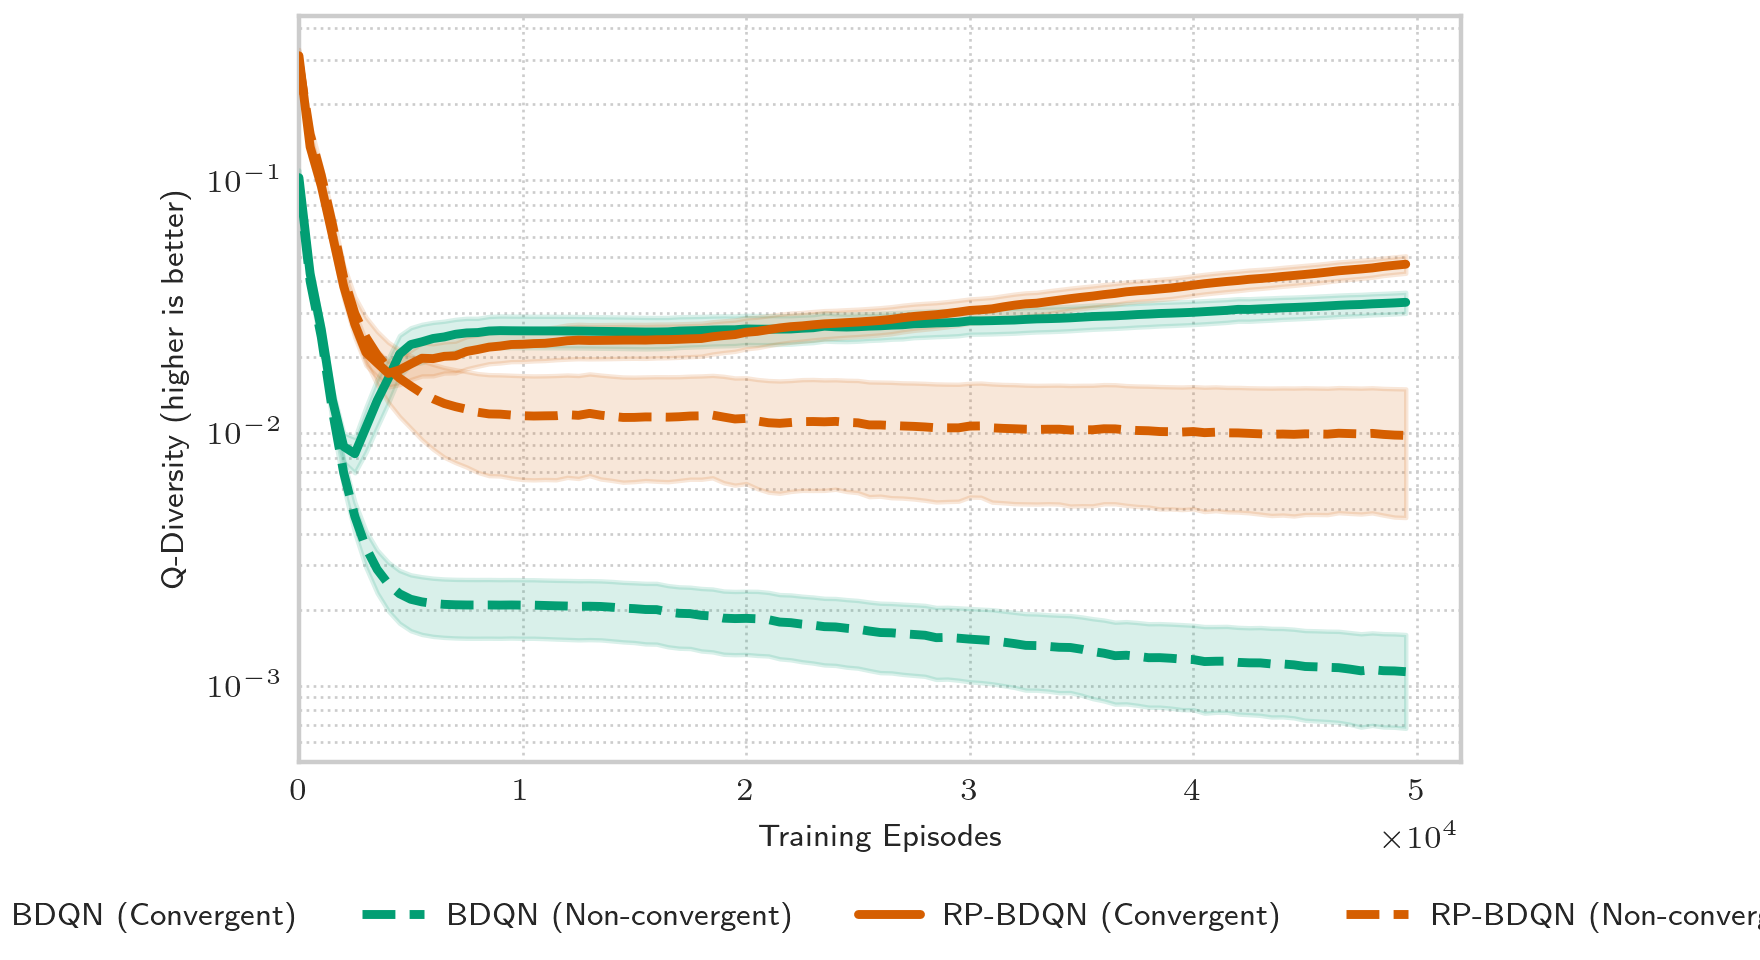
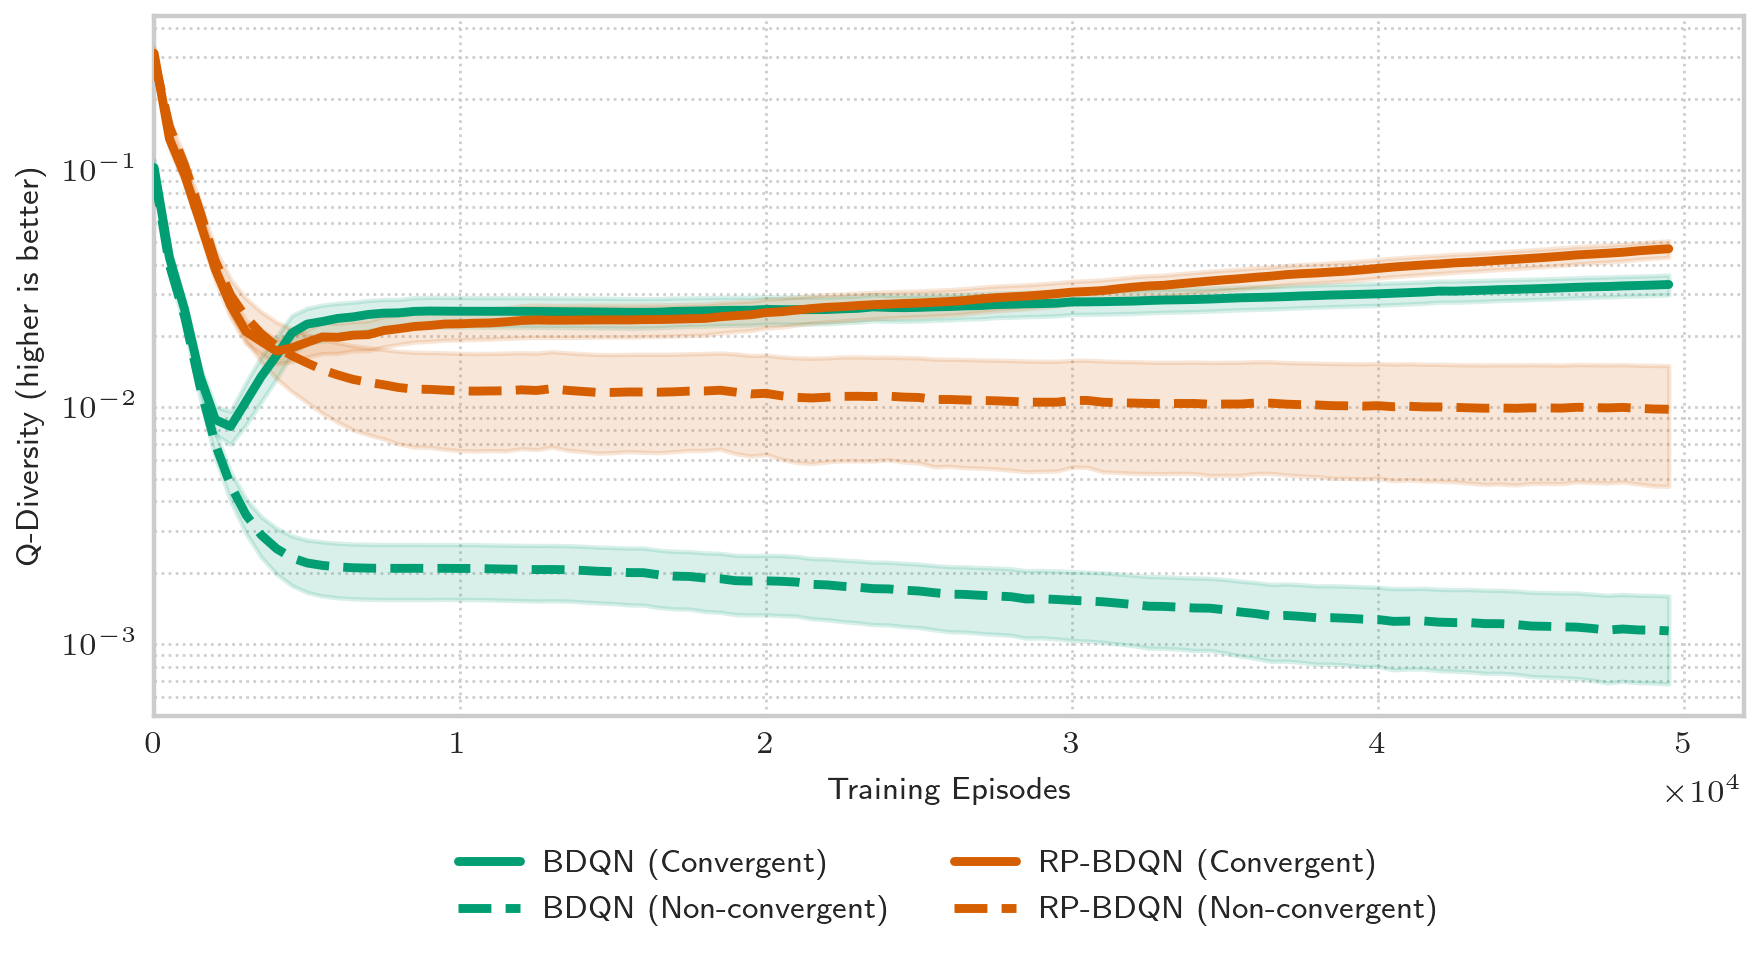
add pic & stuff

diff --git a/evaluate.py b/evaluate.py
@@ -430,7 +430,7 @@ def plot_diversity_collapse():
     ax.set_xlabel("Training Episodes")
     ax.set_ylabel("Q-Diversity (higher is better)")
     ax.tick_params(axis="both", which="major")
-    ax.legend(loc="upper center", bbox_to_anchor=(0.5, -0.15), ncol=4)
+    ax.legend(loc="upper center", bbox_to_anchor=(0.5, -0.15), ncol=2)
     ax.grid(True, which="both", linestyle=":", linewidth=0.6)
     ax.set_yscale("log")
 
@@ -446,6 +446,7 @@ def plot_diversity_collapse():
 
 
 def plot_hyperparameter_sweep():
+    plt.style.use("seaborn-v0_8-whitegrid")
     df_agg = make_agg("sweep")
     hp_and_ranges = [
         ("rb_size", [5_000, 20_000, 40_000], ["boot", "bootrp"]),
